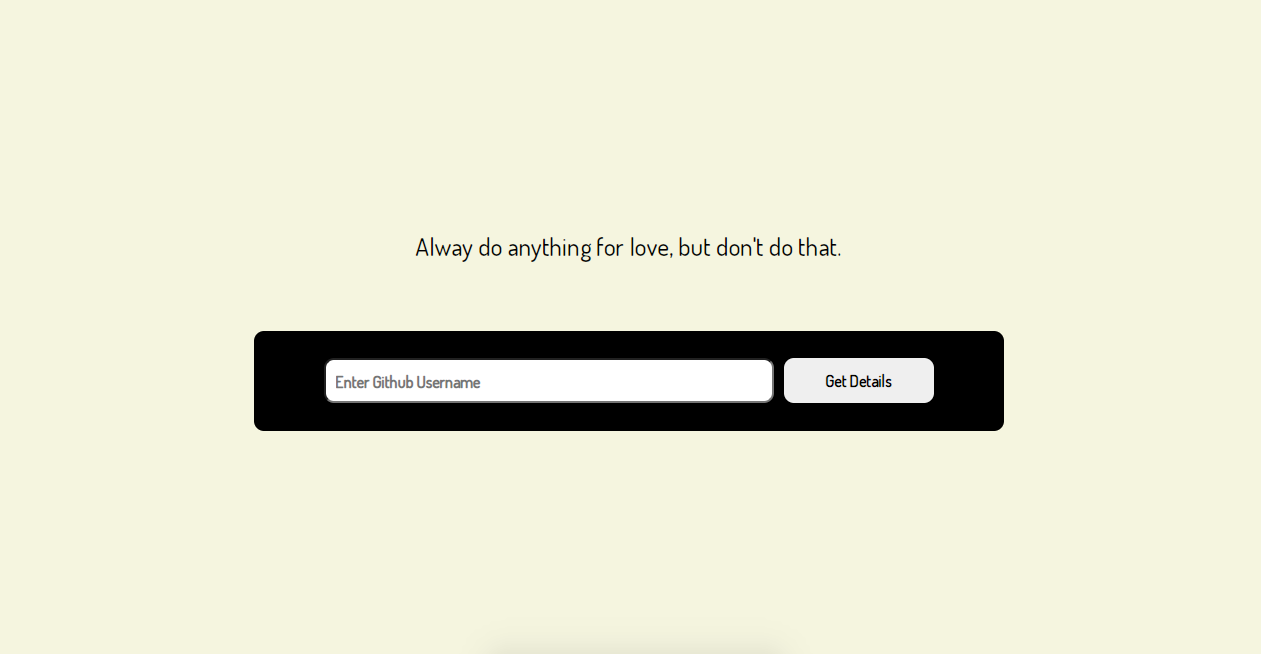
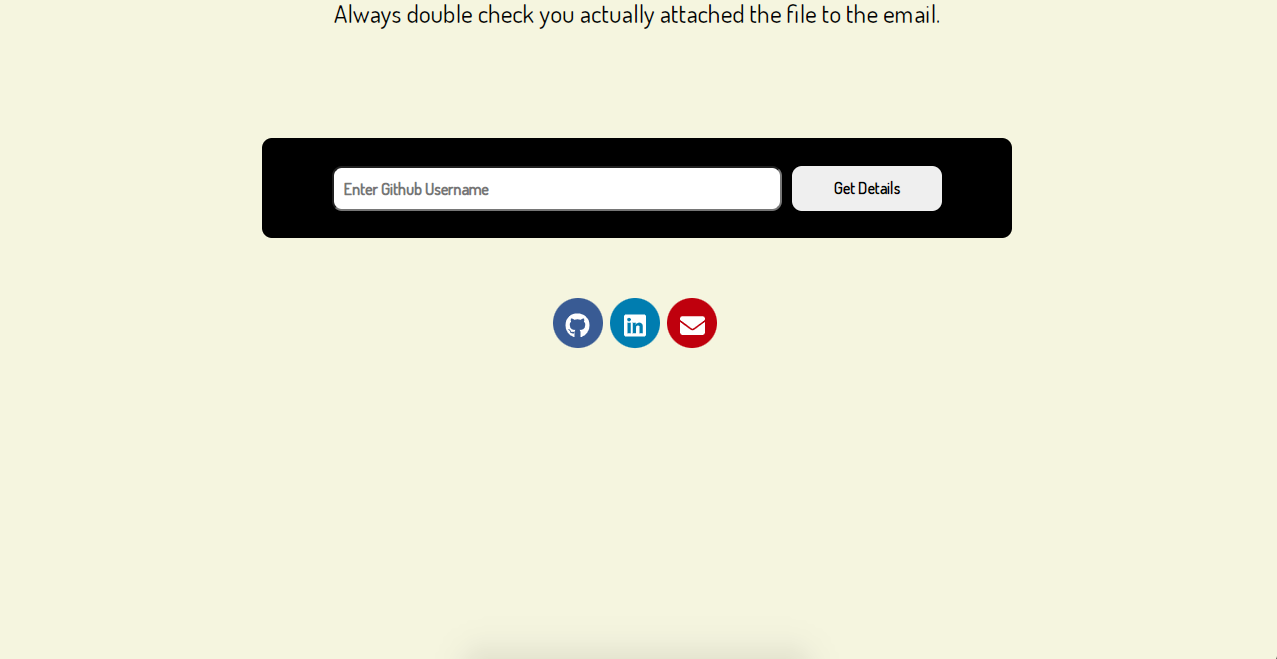
added images to portfolio

Changed region(s): [[0.1856, 0.1835, 0.8041, 0.3976], [0.1856, 0.4281, 0.8041, 0.6728], [0.2474, 0.0, 0.7423, 0.0612]]

diff --git a/index.html b/index.html
@@ -107,7 +107,7 @@
                             <div class="portfolio-hover">
                                 <div class="portfolio-hover-content"><i class="fas fa-plus fa-3x"></i></div>
                             </div>
-                            <img class="img-fluid" src="assets/img/portfolio/st.png"
+                            <img class="img-fluid" src="assets/img/portfolio/it.png"
                                 alt="..." />
                         </a>
                         <div class="portfolio-caption">
@@ -153,7 +153,7 @@
                             <div class="portfolio-hover">
                                 <div class="portfolio-hover-content"><i class="fas fa-plus fa-3x"></i></div>
                             </div>
-                            <img class="img-fluid" src="assets/img/portfolio/git.gif" alt="..." />
+                            <img class="img-fluid" src="assets/img/portfolio/git.png" alt="..." />
                         </a>
                         <div class="portfolio-caption">
                             <div class="portfolio-caption-heading">Github Profile Search Engine</div>
@@ -399,7 +399,7 @@
                                 <h2 class="text-uppercase">IT startup website</h2>
 
                                 <img class="img-fluid d-block mx-auto"
-                                    src="assets/img/portfolio/st.png" alt="..." />
+                                    src="assets/img/portfolio/it.png" alt="..." />
                                 <p>Built using HTML, CSS and JavaScript.
                                     Utilized a mobile-first design paradigm to deliver an intuitive, clean, and
                                     responsive
@@ -520,7 +520,7 @@
                                 <!-- Project details-->
                                 <h2 class="text-uppercase">Github Profile Search Engine</h2>
 
-                                <img class="img-fluid d-block mx-auto" src="assets/img/portfolio/git.gif" alt="..." />
+                                <img class="img-fluid d-block mx-auto" src="assets/img/portfolio/git.png" alt="..." />
                                 <p>A simple web application utilizing the Github API that displays searched github users profile.
                                     I used fetch API to randomly display quotes from Advice Slip API
                                 </p>
